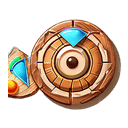
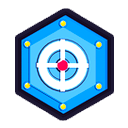
art(dodge): 성문 방어 칩 6 · 보급 3 아이콘 스티커 그림결 + 성문 기금 카드 남색
public/dodge/chips · supplies 9장이 갈색 나무 생성 그림이라 남색 정비 판에서 흙빛 덩어리로 보였다.
relic_icons.py CHIP_JOBS — 칩은 색 육각 토큰 + 문양 하나(조준 과녁 · 연사 화살 셋 · 잔열 불꽃 · 서리 눈 결정 ·
활력 하트 · 예기 번개), 보급은 물건 하나(정예 선발 카드 · 수호 부적 · 예비 화살통). assemble-currency.mjs 가 같은 이름으로.
보급 탭에 하나 남은 갈색 결제 카드(.exp-fund)도 남색 판으로. scan-readability 통과.

diff --git a/src/ui/dodgeForgeBlue.css b/src/ui/dodgeForgeBlue.css
@@ -53,3 +53,6 @@
 /* 정비 탭 카드 — 반투명 판이 남색 위에 놓이면 회색 설명 글자가 대비 4.2 로 흐려졌다(scan-readability) → 단색 짙은 남색 · 밝은 회청 글자 */
 .exp-menu-content :is(.exp-weapon-card, .exp-chip-list li, .exp-supply-list li, .exp-daily-list li) { background: #0f1c3f !important; }
 .exp-menu-content :is(.exp-weapon-card, .exp-chip-list, .exp-supply-list, .exp-daily-list) em { color: #c3cfe3 !important; }
+/* 보급 탭 성문 기금 결제 카드 — 갈색 판 하나만 남아 있었다 */
+.exp-menu-content .exp-fund { background: #0f1c3f !important; border-color: #ffd23f !important; }
+.exp-menu-content .exp-fund :is(.exp-fund-more, .exp-fund-tiers) { background: #182b5c !important; }

diff --git a/art-gen/blender/relic_icons.py b/art-gen/blender/relic_icons.py
@@ -1964,6 +1964,116 @@ NAV_JOBS = {
     'nav-attendance': (n_attendance, (-10, 8), 1.6), 'nav-event': (n_event, (-8, 6), 1.6), 'nav-settings': (n_settings, (-12, 8), 1.6), 'nav-shop': (n_shop, (-16, 10), 1.7),
 }
 
+
+# ── 성문 방어 칩 · 보급 아이콘 (2026-11-23, 사용자: "외에 아쉬운점 리소스 마저 수정") — public/dodge/chips · supplies 9장이
+# 갈색 나무 생성 그림이라 남색 정비 판에서 흙빛 덩어리로 보였다. 칩 = 색 육각 토큰 + 문양 하나, 보급 = 물건 하나. assemble-currency.mjs 가 같은 이름으로
+def _chip_base(c, c2):
+    pts = [(0.62 * math.cos(math.radians(30 + 60 * i)), 0.62 * math.sin(math.radians(30 + 60 * i))) for i in range(6)]
+    prism('chip', pts[::-1], 0.2, m('chip', c))
+    prism('chip_in', [(x * 0.78, z * 0.78) for x, z in pts[::-1]], 0.04, m('chip_in', c2), y=-0.12, outline=O * 0.5)
+    for i in range(6):
+        a = math.radians(30 + 60 * i)
+        stud(f'st{i}', Vector((0.53 * math.cos(a), -0.12, 0.53 * math.sin(a))), 0.035)
+
+
+def _emb():
+    return m('emb', '#ffffff', emit='#ffffff', es=0.4)
+
+
+def c_focus(_):   # 조준 — 과녁 고리 + 십자
+    _chip_base('#2f6fd0', '#5b9bf0')
+    saved = C.FACET
+    C.FACET = 0
+    ob('ring', C.torus(Vector((0, -0.16, 0)), 0.26, 0.05, seg=32, ring=6, rot=_FRONT), _emb(), O * 0.5)
+    ob('dot', C.ellipsoid(Vector((0, -0.17, 0)), (0.07, 0.03, 0.07)), m('red', '#e11d48'), O * 0.4)
+    C.FACET = saved
+    for a in (0, 90):
+        ob(f'bar{a}', C.box(Vector((0, -0.16, 0)), (0.66, 0.03, 0.05), rot=Euler((0, math.radians(a), 0))), _emb(), O * 0.4)
+
+
+def c_barrage(_):   # 연사 — 나란히 날아가는 화살 셋
+    _chip_base('#ea580c', '#fb923c')
+    for k, z in enumerate((0.2, 0.0, -0.2)):
+        x0 = -0.3 + 0.06 * (k % 2)
+        ob(f'shaft{k}', C.box(Vector((x0 + 0.18, -0.16, z)), (0.42, 0.03, 0.04)), _emb(), O * 0.4)
+        prism(f'head{k}', [(x0 + 0.38, z + 0.07), (x0 + 0.52, z), (x0 + 0.38, z - 0.07)][::-1], 0.04, _emb(), y=-0.16, outline=O * 0.4)
+
+
+def c_ember(_):   # 잔열 — 불꽃
+    _chip_base('#c81e3a', '#f0506a')
+    flame(Vector((0, -0.18, -0.02)), 1.5)
+
+
+def c_rime(_):   # 서리 — 눈 결정
+    _chip_base('#0e8fc0', '#5cc8f0')
+    for a in (0, 60, 120):
+        ob(f'arm{a}', C.box(Vector((0, -0.16, 0)), (0.6, 0.03, 0.06), rot=Euler((0, math.radians(a), 0))), _emb(), O * 0.4)
+        for sx in (-1, 1):
+            r = Euler((0, math.radians(a), 0)).to_matrix()
+            tip = r @ Vector((sx * 0.2, 0, 0)) + Vector((0, -0.16, 0))
+            for b in (-45, 45):
+                ob(f'tw{a}{sx}{b}', C.box(tip, (0.12, 0.03, 0.035), rot=Euler((0, math.radians(a + b), 0))), _emb(), O * 0.3)
+
+
+def c_vitality(_):   # 활력 — 하트
+    _chip_base('#16a34a', '#4ade80')
+    heart = m('heart', '#fff1f2', emit='#ffffff', es=0.3)
+    for sx in (-1, 1):
+        ob(f'lobe{sx}', C.ellipsoid(Vector((sx * 0.12, -0.16, 0.08)), (0.15, 0.05, 0.15)), heart, O * 0.5)
+    prism('tip', [(-0.26, 0.06), (0.0, -0.28), (0.26, 0.06)][::-1], 0.08, heart, y=-0.16, outline=O * 0.5)
+
+
+def c_edge(_):   # 예기 — 번개
+    _chip_base('#6d28d9', '#a78bfa')
+    pts = [(0.06, 0.34), (-0.18, -0.02), (-0.02, -0.02), (-0.1, -0.34), (0.18, 0.06), (0.02, 0.06)]
+    prism('bolt', pts[::-1], 0.06, m('bolt', '#ffe066', emit='#ffe680', es=0.6), y=-0.16, outline=O * 0.6)
+
+
+def s_draft(_):   # 정예 선발 — 펼친 카드 셋(가운데 금 별)
+    cols = ('#2f6fd0', '#7c3aed', '#2f6fd0')
+    for k, a in enumerate((-22, 0, 22)):
+        rot = Euler((0, math.radians(a), 0))
+        d = rot.to_matrix() @ Vector((0, 0, 1))
+        ob(f'card{k}', C.box(d * 0.1 + Vector((0, 0.06 - 0.06 * (k == 1), 0)), (0.42, 0.04, 0.62), bevel=0.04, rot=rot), m(f'card{k}', '#ffffff'))
+        ob(f'face{k}', C.box(d * 0.1 + Vector((0, 0.03 - 0.06 * (k == 1), 0)), (0.34, 0.02, 0.52), bevel=0.02, rot=rot), m(f'cf{k}', cols[k]), O * 0.4)
+    pts = []
+    for i in range(10):
+        a = math.pi / 2 + i * math.pi / 5
+        r = 0.16 if i % 2 == 0 else 0.07
+        pts.append((r * math.cos(a), 0.1 + r * math.sin(a)))
+    prism('star', pts[::-1], 0.04, m('star', '#ffd23f', emit='#ffe680', es=0.4), y=-0.06, outline=O * 0.5)
+
+
+def s_insurance(_):   # 수호 부적 — 끈 달린 방패 부적
+    sh = [(-0.42, 0.44), (0.42, 0.44), (0.42, 0.0), (0.0, -0.52), (-0.42, 0.0)]
+    prism('amulet', sh[::-1], 0.14, m('amulet', '#16a34a'))
+    prism('rim', [(x * 1.12, z * 1.12 + 0.01) for x, z in sh[::-1]], 0.1, metal_m(GOLD), y=0.05)
+    heart = m('heart', '#fff1f2', emit='#ffffff', es=0.3)
+    for sx in (-1, 1):
+        ob(f'lobe{sx}', C.ellipsoid(Vector((sx * 0.1, -0.12, 0.12)), (0.12, 0.04, 0.12)), heart, O * 0.5)
+    prism('tip', [(-0.21, 0.1), (0.0, -0.16), (0.21, 0.1)][::-1], 0.06, heart, y=-0.12, outline=O * 0.5)
+    ob('cord', C.torus(Vector((0, 0.02, 0.62)), 0.14, 0.03, seg=16, ring=5, rot=_FRONT), m('cord', '#e11d48'), O * 0.5)
+
+
+def s_primed(_):   # 예비 화살통 — 화살 꽂힌 통
+    ob('quiver', C.tube([Vector((0, 0, -0.62)), Vector((0, 0, 0.18))], [0.24, 0.3], seg=16), m('leather', '#8a4f22'))
+    for z in (-0.4, 0.06):
+        ob(f'band{z}', C.torus(Vector((0, 0, z)), 0.27 + (z + 0.62) * 0.07, 0.035, seg=20, ring=5), metal_m(GOLD), O * 0.5)
+    for k, (x, a) in enumerate(((-0.12, -10), (0.0, 0), (0.12, 10))):
+        rot = Euler((0, math.radians(a), 0))
+        d = rot.to_matrix() @ Vector((0, 0, 1))
+        base = Vector((x, -0.02, 0.1))
+        ob(f'shaft{k}', C.tube([base, base + d * 0.5], 0.022, seg=6), m('shaft', '#e0b070'), O * 0.4)
+        prism(f'fl{k}', [(base.x + d.x * 0.46 - 0.07, base.z + d.z * 0.44), (base.x + d.x * 0.62, base.z + d.z * 0.62), (base.x + d.x * 0.46 + 0.07, base.z + d.z * 0.44)][::-1], 0.03, m('fletch', '#e11d48'), y=-0.04, outline=O * 0.4)
+    _spark('sp0', Vector((0.42, -0.3, 0.46)), 0.13)
+
+
+CHIP_JOBS = {
+    'chip2-focus': (c_focus, (-8, 4), 1.5), 'chip2-barrage': (c_barrage, (-8, 4), 1.5), 'chip2-ember': (c_ember, (-8, 4), 1.5),
+    'chip2-rime': (c_rime, (-8, 4), 1.5), 'chip2-vitality': (c_vitality, (-8, 4), 1.5), 'chip2-edge': (c_edge, (-8, 4), 1.5),
+    'sup2-draft': (s_draft, (-12, 6), 1.6), 'sup2-insurance': (s_insurance, (-10, 6), 1.6), 'sup2-primed': (s_primed, (-14, 8), 1.6),
+}
+
 QUEST_JOBS = {
     'quest-twigs': (q_twigs, (-14, 10), 1.7), 'quest-acorns': (q_acorns, (-14, 16), 1.6), 'quest-dam-patch': (q_dam_patch, (-20, 14), 1.7),
     'quest-river-patrol': (q_river_patrol, (-10, 12), 1.7), 'quest-log-haul': (q_log_haul, (-22, 14), 1.7), 'quest-village-guard': (q_village_guard, (-14, 10), 1.8),
@@ -2063,6 +2173,7 @@ JOBS.update(CUR_JOBS)
 JOBS.update(PKG_JOBS)
 JOBS.update(IDLE2_JOBS)
 JOBS.update(NAV_JOBS)
+JOBS.update(CHIP_JOBS)
 RELICS = ['ember-ring', 'flame-feather', 'lava-heart', 'frost-horn', 'snow-crystal', 'ice-lantern', 'golden-acorn', 'lucky-coin', 'beaver-crown', 'shard'] + list(RELIC_JOBS_V3) + list(RELIC_JOBS_V4)
 
 argv = sys.argv[sys.argv.index('--') + 1:] if '--' in sys.argv else ['relics', 'tree']
@@ -2078,6 +2189,8 @@ for a in argv:
         names += list(RELIC_JOBS_V4)
     elif a == 'quests2':
         names += [k for k in QUEST_JOBS if k[len('quest-'):] in ('reed-weave', 'mud-haul', 'fish-catch', 'lily-garden', 'bark-strip', 'lantern-light', 'stone-stack', 'stepping-stones', 'mill-wheel', 'honey-gather', 'raft-build', 'watchtower', 'tool-forge', 'market-trade', 'canal-dig', 'storehouse', 'river-lighthouse', 'festival', 'royal-banner', 'crystal-mine', 'star-reservoir', 'beaver-kingdom')]
+    elif a == 'chip2':
+        names += list(CHIP_JOBS)
     elif a == 'nav':
         names += list(NAV_JOBS)
     elif a == 'idle2':
